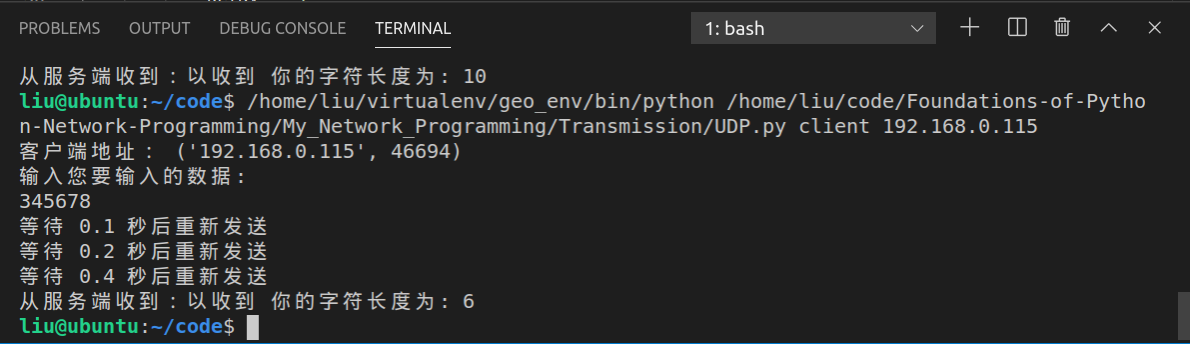
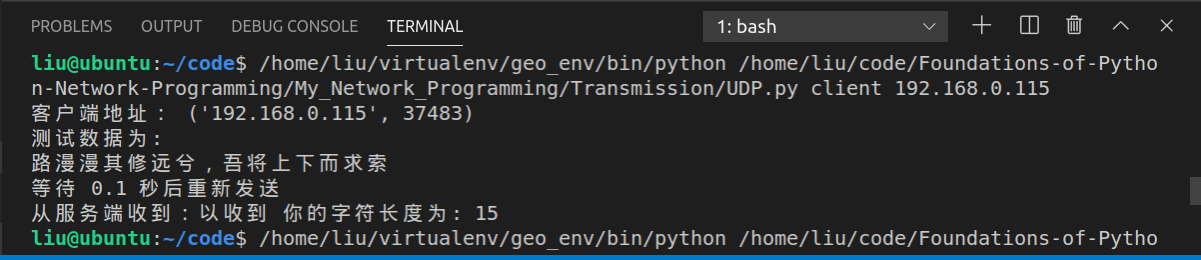
updata

diff --git a/My_Network_Programming/Transmission/UDP.py b/My_Network_Programming/Transmission/UDP.py
@@ -24,8 +24,9 @@ def client(hosthome, port) :
     sock.connect((hosthome, port)) #使用connect()
     print('客户端地址： {}'.format(sock.getsockname()))
     delay = 0.1 #使用指针退避技术，通过这一技术重发数据包的频率越来越底
-    print('输入您要输入的数据: ')
-    text = input()
+    print('测试数据为: ')
+    text = '路漫漫其修远兮，吾将上下而求索'
+    print(text)
     data = text.encode('utf-16')
 
     while True :

diff --git a/My_Network_Programming/Transmission/README.md b/My_Network_Programming/Transmission/README.md
@@ -1,12 +1,15 @@
-UDP.py是用udp协议进行传输，此例模拟了丢包，并使用使用指针退避技术，通过这一技术重发数据包的频率越来越底
+1.UDP.py是使用udp协议进行传输，此例模拟了丢包，并使用使用指针退避技术，通过这一技术重发数据包的频率越来越底
 
 例：
+输入：UDP.py server 192.168.0.115 启动服务器监听
 ![Image text](https://raw.githubusercontent.com/liuhaoze22/Foundations-of-Python-Network-Programming/master/My_Network_Programming/Transmission/img-folder/udp_server.PNG)
 
-
+输入：UDP.py client 192.168.0.115 启动客户端发送数据
 ![Image text](https://raw.githubusercontent.com/liuhaoze22/Foundations-of-Python-Network-Programming/master/My_Network_Programming/Transmission/img-folder/udp_client.PNG)
+![Image text](https://raw.githubusercontent.com/liuhaoze22/Foundations-of-Python-Network-Programming/master/My_Network_Programming/Transmission/img-folder/udp_client1.PNG)
 
 
+2.TCP.py是使用tcp协议进行传输,使用在消息前面加上其长度的封帧模式
 ![Image text](https://raw.githubusercontent.com/liuhaoze22/Foundations-of-Python-Network-Programming/master/My_Network_Programming/Transmission/img-folder/TCP_server.PNG)
 
 
